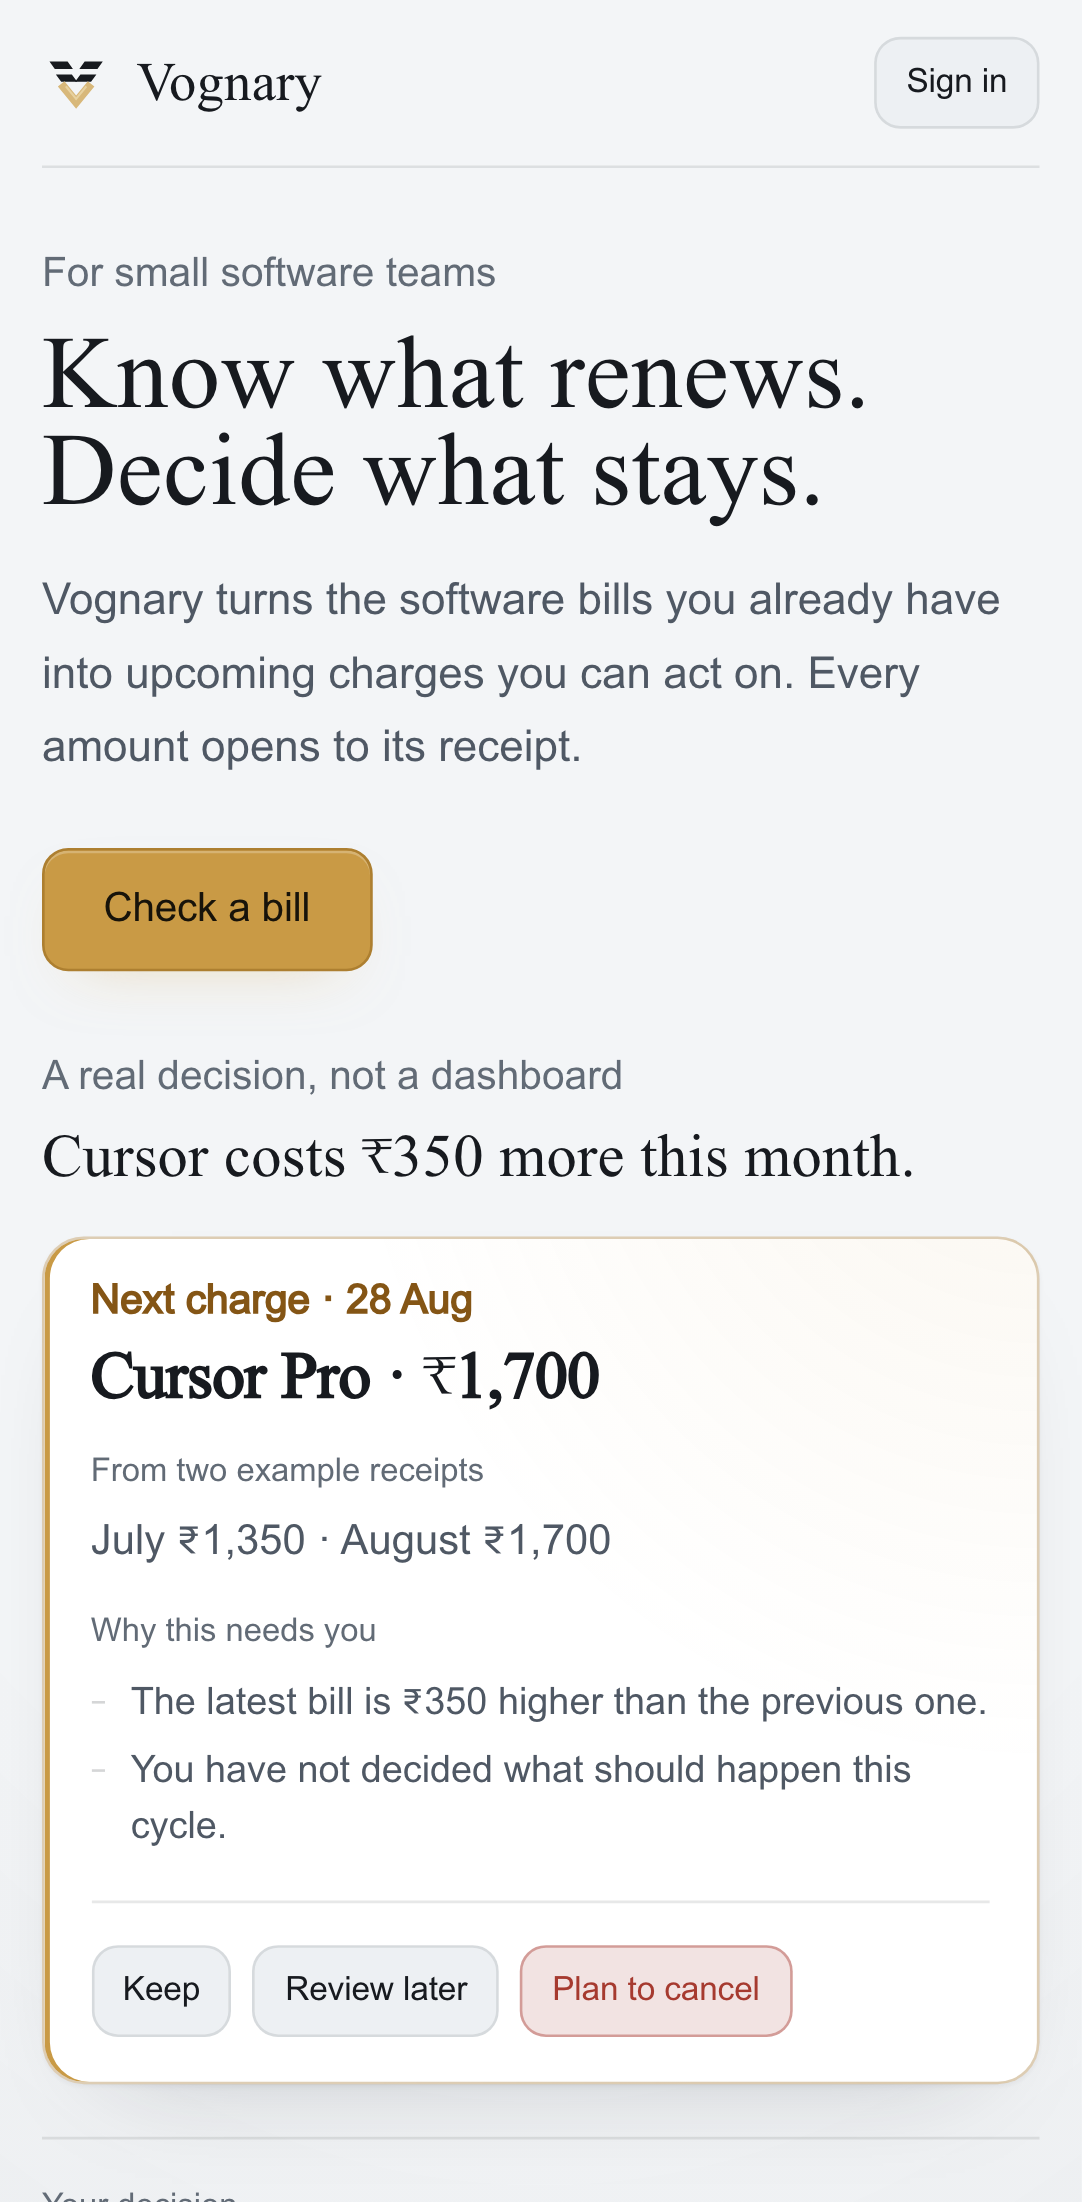
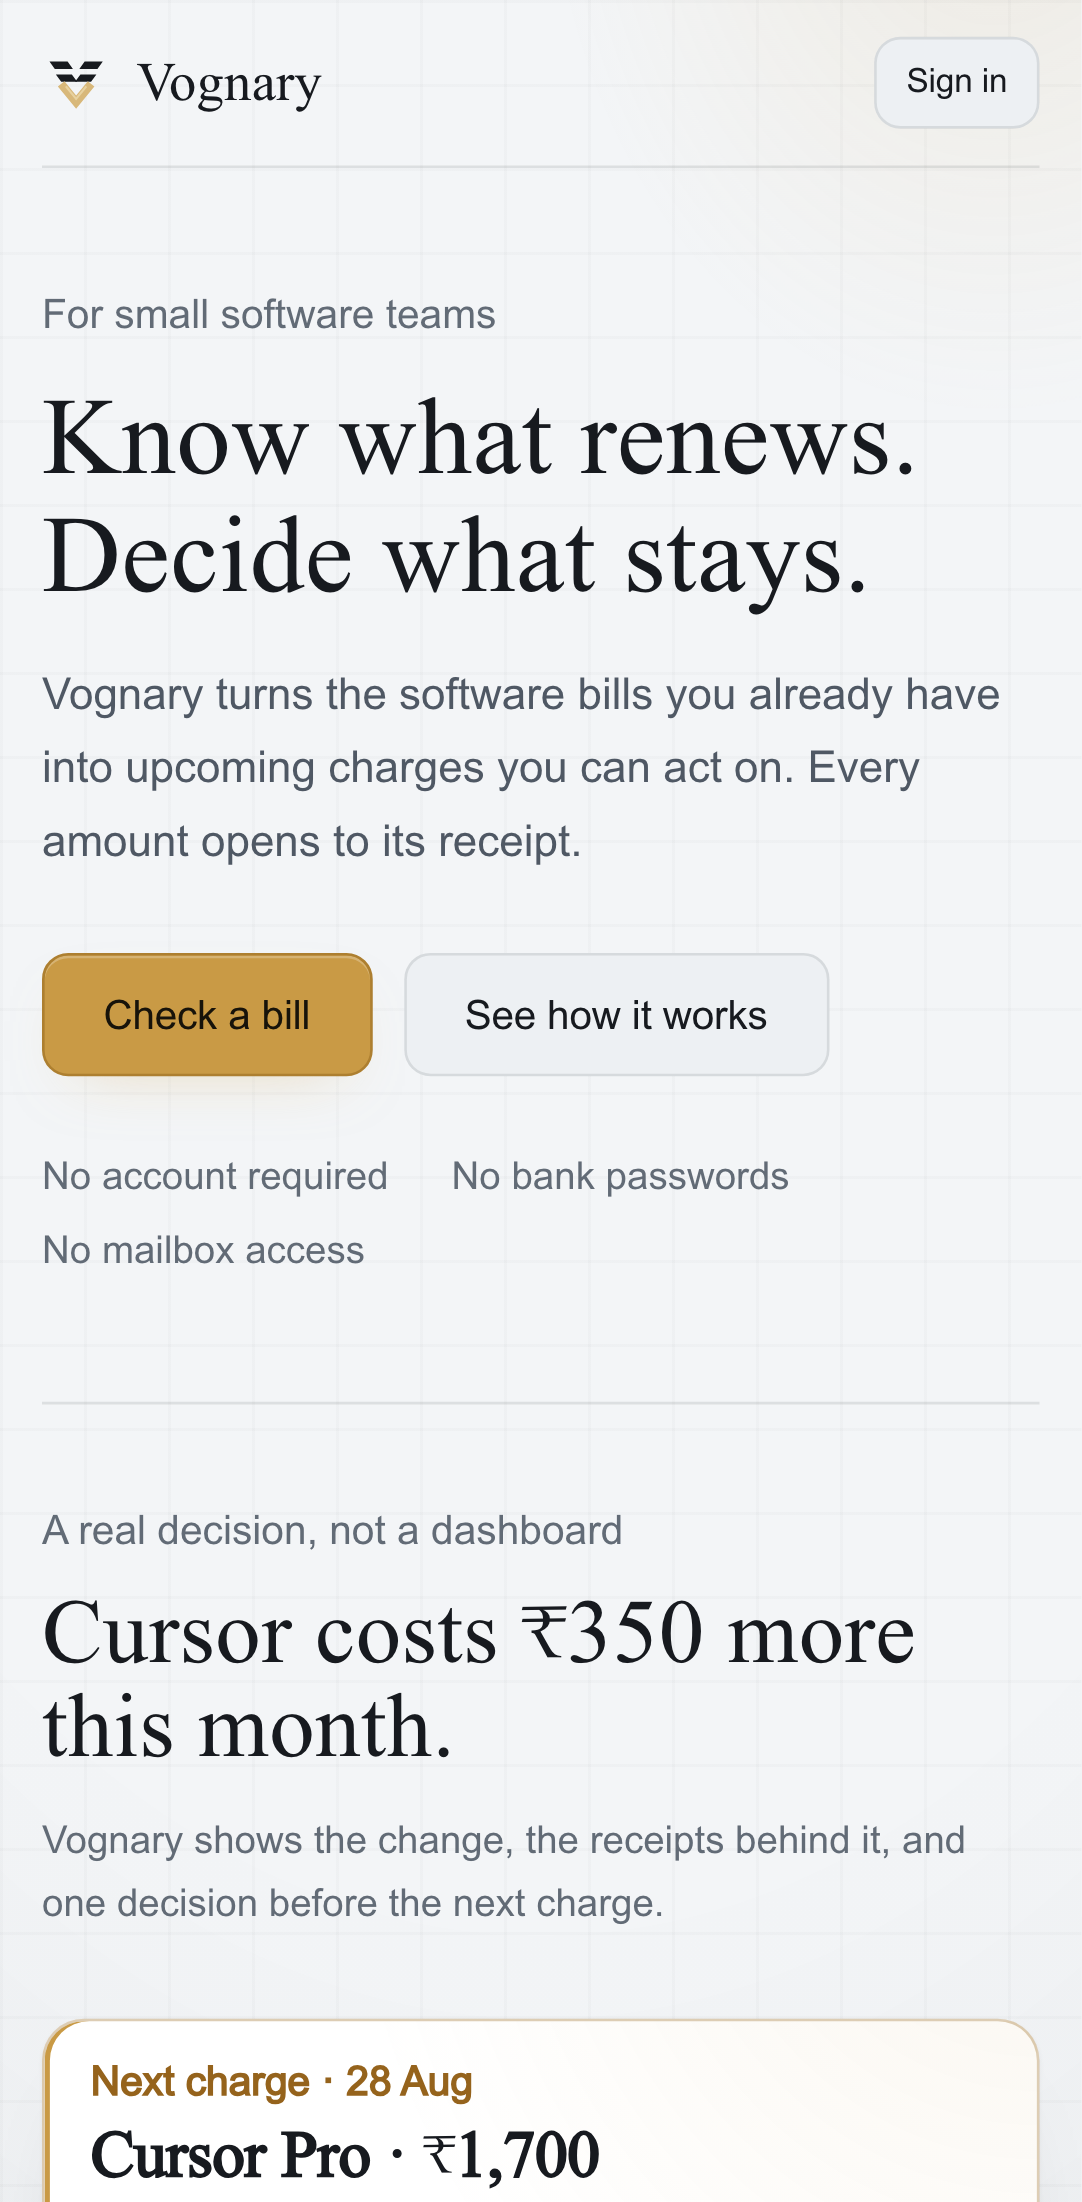
fix(landing): raise verdict contrast, close the masthead void, add evidence
Follow-up to a043246, applied on top of published main rather than rewriting it.

--verdict darkens to #15614c so stamp-keep/pill-ready move 4.55:1 -> 5.90:1.
Worst stamp/pill ratio is now 4.99:1 across all nine variants, measured from
rendered pixels with alpha compositing over the real parent background. Tints
keep the original hue, matching the --ochre and --ember precedent.

Pin the landing boundary list to an auto/1fr row track so the left masthead
column no longer stretches to the tall product column; the gap between the
primary CTA and the boundaries closes from a full-height void to 24px.

Add docs/evidence/editorial-ledger/ (desktop 1440x900 and mobile 390x844, each
default and reduced-motion) and revert the two Playwright-regenerated
surface-10 probes, which are rewritten on every run and are not authored
evidence for this pass.

Presentation only. No decision rule, money rule, evidence contract, route,
store, migration, proxy, or agent-routing file touched.

diff --git a/src/app/launch-landing.tsx b/src/app/launch-landing.tsx
@@ -19,7 +19,7 @@ export default function LaunchLanding() {
         </nav>
 
         <section className="border-b border-line py-8 sm:py-10">
-          <div className="grid min-w-0 gap-8 lg:grid-cols-[minmax(0,0.82fr)_minmax(0,1.18fr)] lg:gap-14">
+          <div className="grid min-w-0 gap-8 lg:grid-cols-[minmax(0,0.82fr)_minmax(0,1.18fr)] lg:grid-rows-[auto_1fr] lg:gap-x-14 lg:gap-y-6">
             <div className="min-w-0 lg:col-start-1 lg:row-start-1">
               <p className="eyebrow text-ochre">For small software teams</p>
               <h1 className="mt-3 font-display text-[2.125rem] font-semibold leading-[1.08] tracking-tight text-(--ink) sm:text-5xl">

diff --git a/src/app/globals.css b/src/app/globals.css
@@ -46,7 +46,7 @@
      clears 4.5:1; the tints stay on the original hue. */
   --ember: #a63a2f;
   --ember-tint: rgba(189, 73, 61, 0.10);
-  --verdict: #19745b;
+  --verdict: #15614c;
   --verdict-tint: rgba(25, 116, 91, 0.10);
   --ochre: #845515;
   --ochre-tint: rgba(149, 99, 28, 0.10);
